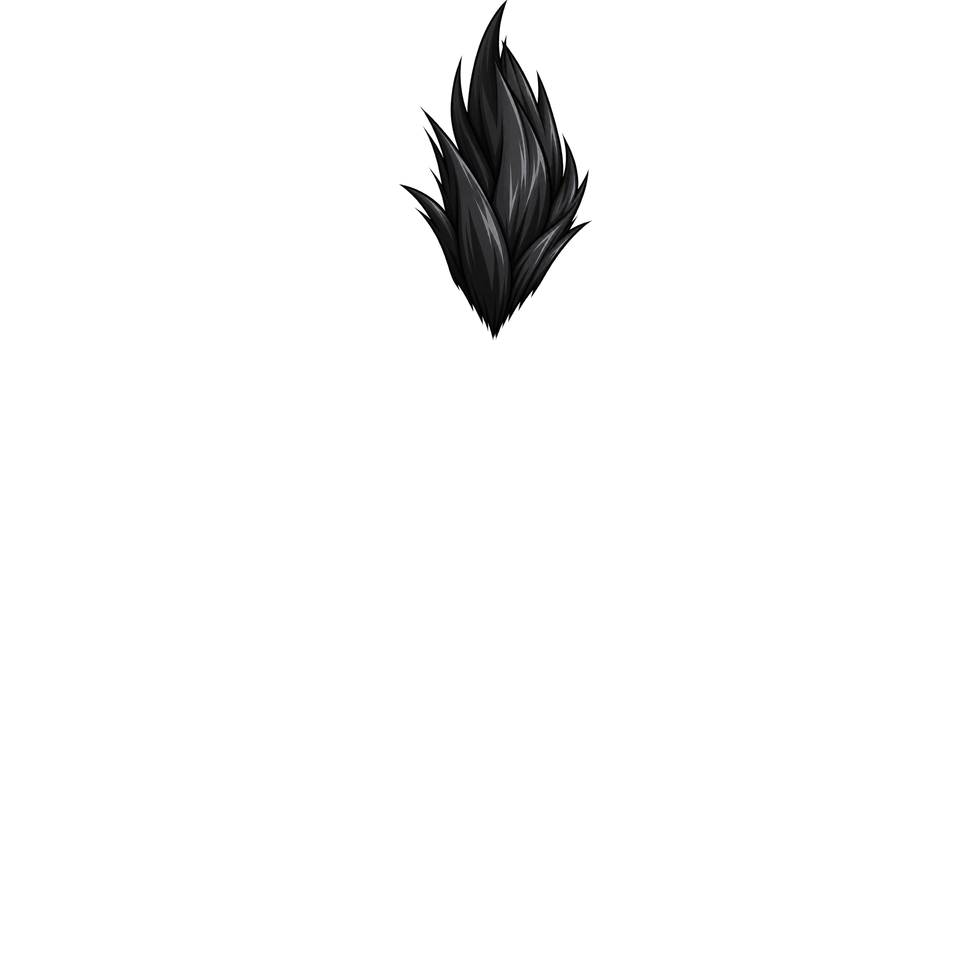
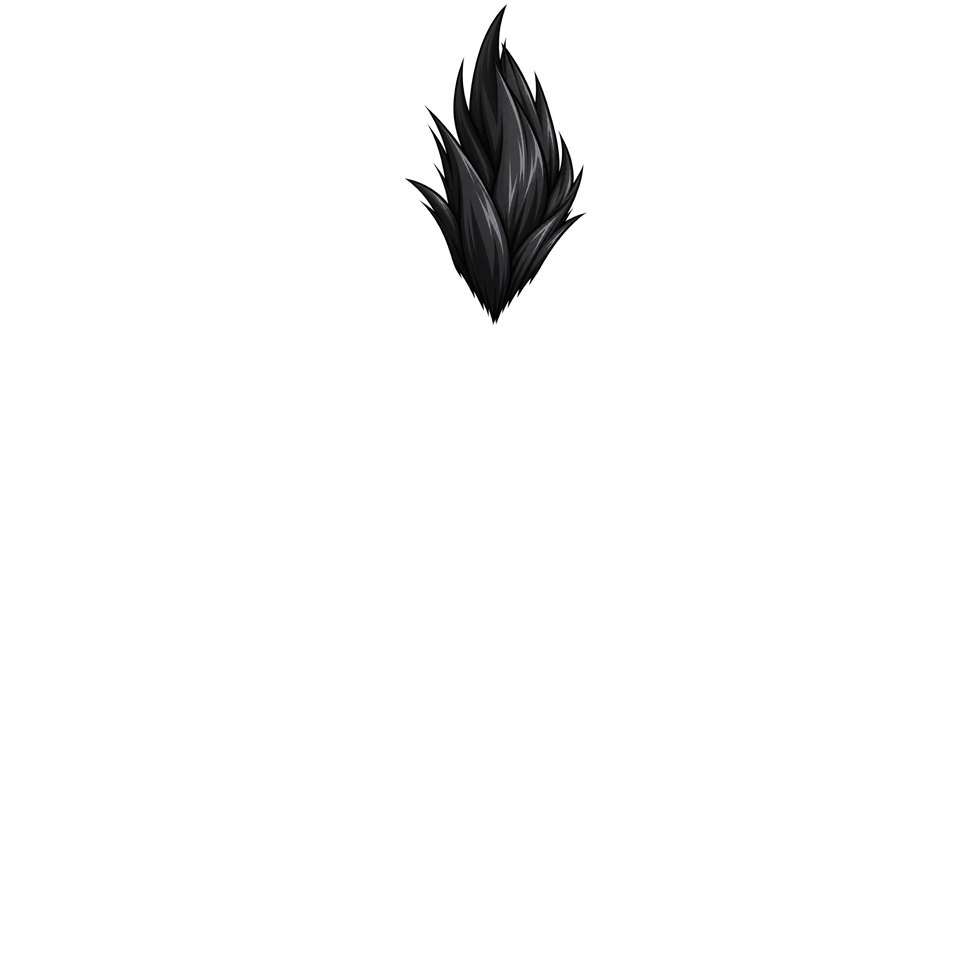
Remove the astronaut helmet and headphones; raise the mohawk
- Astronaut Helmet removed (its clothing layer, its over-the-head shell
  and source art); the Clothing/Over layer only existed for it, so the
  generator no longer looks for one
- Headphones removed from Headwear, with their source art
- Spiky Hair sits 15 px higher on the crown, very slightly smaller so
  the tips stay inside the frame

Claude-Session: https://claude.ai/code/session_01SDLUDmPw6iZ6fricfnVEZ6

Changed region(s): [[0.4062, 0.0625, 0.625, 0.3438], [0.5, 0.0, 0.5312, 0.0625]]

diff --git a/generate_collection.js b/generate_collection.js
@@ -13,12 +13,10 @@
  *
  * The alien is one of the recoloured heads in Assets/Expression_Colors/:
  * Skin picks the colour folder and Expression picks the head inside it. Clothing
- * (Assets/Clothing) goes under the head; a clothing item with a file in
- * Assets/Clothing/Over (the astronaut helmet) also has a part over the head.
- * Headwear (Assets/Headwear) sits on the head over any clothing without an Over
- * part. Every layer is 960x960 and fitted to the full-size heads by
+ * (Assets/Clothing) goes under the head and Headwear (Assets/Headwear) sits on
+ * it. Every layer is 960x960 and fitted to the full-size heads by
  * scripts/fit-layers.cjs. Each piece casts a soft shadow onto what is under it:
- * the head onto the clothing, headwear and the helmet onto the head.
+ * the head onto the clothing, headwear onto the head.
  *
  * Odds follow rarity.html: Rare 3.57%, Text on 50% of pieces, Headwear on 25% of
  * Normal pieces. Counts are
@@ -54,7 +52,7 @@ const DARK_BACKGROUNDS = ['Abyss', 'UFO Inverted'];
 const SHOWS_ON_DARK = [
   'Android', 'OG',
   'Coral Red', 'Cyan', 'Forest Green', 'Honey Gold', 'Hot Pink', 'Lime', 'Platinum', 'Sky Blue', 'Violet',
-  'Astronaut Helmet', 'Safari Jacket', 'Military Jacket', 'Camo Jacket', 'Spacesuit', 'Hoodie White',
+  'Safari Jacket', 'Military Jacket', 'Camo Jacket', 'Spacesuit', 'Hoodie White',
 ];
 // (Graphite heads, the Infantry rare, and the dark garments stay off near-black.)
 // Coloured backgrounds get the caption in the same colour family (backgrounds and
@@ -94,7 +92,7 @@ const SKINS = [
 
 // Soft shadows: a layer casts this shadow onto the layers directly under it.
 const HEAD_SHADOW = { drop: 26, blur: 18, opacity: 0.75 }; // the head onto the clothing
-const HAT_SHADOW = { drop: 16, blur: 10, opacity: 0.7 };   // headwear and the helmet onto the head
+const HAT_SHADOW = { drop: 16, blur: 10, opacity: 0.7 };   // headwear onto the head
 
 // Friendly names for the goats_contest_mattrick backgrounds (the halftone
 // copies keep their scene name plus a "Halftone" suffix for uniqueness).
@@ -174,11 +172,7 @@ function backgroundLayers() {
 
 const LAYERS = {
   Background: backgroundLayers(),
-  // Clothing goes under the head; a matching file in Clothing/Over goes over it.
-  Clothing: layer('Clothing').map((c) => {
-    const over = path.join(ASSETS, 'Clothing', 'Over', path.basename(c.file));
-    return fs.existsSync(over) ? { ...c, over } : c;
-  }),
+  Clothing: layer('Clothing'),
   Headwear: layer('Headwear'),
   Skin: SKINS.map(([dir, name]) => ({ dir, name })),
   // The expression file names are the same in every skin folder; Platinum is read for the list.
@@ -209,8 +203,7 @@ function plan() {
   for (const slot of slots) {
     const rare = slot.type === 'Rare' ? rareDeck.pop() : null;
     const wearsHeadwear = !rare && headwearDeck.pop();
-    const usable = (background, body) => bodyFits(background, body) && (!slot.text || captionsFor(background).length > 0)
-      && !(wearsHeadwear && body.over); // headwear can't go under the helmet
+    const usable = (background, body) => bodyFits(background, body) && (!slot.text || captionsFor(background).length > 0);
     let traits, stack;
     do {
       const background = pick(LAYERS.Background.filter((bg) =>
@@ -250,7 +243,6 @@ function layerStack(traits) {
     const clothing = { file: traits.Clothing.file };
     const head = { file: headFile(traits.Skin, traits.Expression), shadow: HEAD_SHADOW, onto: [clothing] };
     layers.push(clothing, head);
-    if (traits.Clothing.over) layers.push({ file: traits.Clothing.over, shadow: HAT_SHADOW, onto: [head] });
     if (traits.Headwear) layers.push({ file: traits.Headwear.file, shadow: HAT_SHADOW, onto: [head] });
   }
   if (traits.Text) layers.push({ file: traits.Text.file });
